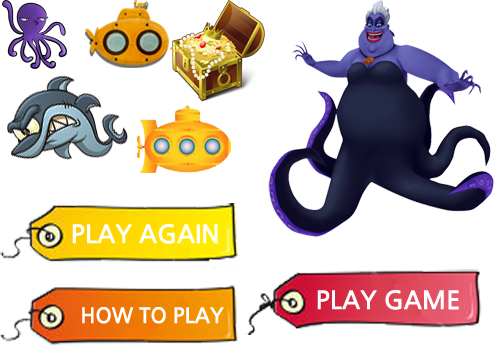
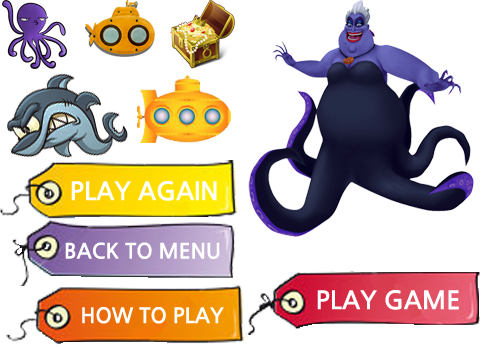
Add instruction button and stage

diff --git a/UnderTheSea/Scripts/managers/asset.ts b/UnderTheSea/Scripts/managers/asset.ts
@@ -2,7 +2,7 @@
     // Image and Sound Manifest;
     var assetManifest = [
         { id: "loading", src: "assets/images/loading.jpg" },
-        { id: "ocean", src: "assets/images/Untitled-6.png" },
+        { id: "ocean", src: "assets/images/underthesea.png" },
         { id: "engine", src: "assets/sounds/engine.ogg" },
         { id: "thunder", src: "assets/sounds/thunder.ogg" },
         { id: "yay", src: "assets/sounds/yay.ogg" },
@@ -11,26 +11,27 @@
     ];
 
     // SpriteSheet Data Object
-    //box 170, 0, 96, 101
-    //shark 6, 75, 122, 88
+    //box 170, 0, 66, 68
+    //shark 6, 73, 122, 88
     //octopus 1, 0, 68, 70
     //submarine 85, 0, 84, 68
-    //playagain 0, 203, 237, 58
-    //howtoplay 0,285, 237,59
-    //playgame 247, 269, 234, 65
+    //playagain 0, 160, 237, 58
+    //howtoplay 6,285, 237,59
+    //playgame 246, 273, 233, 66
     //finalboss 268, 0, 233, 238
+    //backtomenu 12, 221, 223, 65
 
 
     var spriteSheetData = {
         "images": ["assets/images/utilities.png"],
         "frames": [
-            [6, 75, 122, 88],
-            [0, 285, 237, 59],
-            [170, 0, 96, 101],
+            [6, 73, 122, 87],
+            [6, 285, 237, 59],
+            [170, 0, 66, 68],
             [85, 0, 84, 68],
-            [247, 269, 234, 65],
-            [0, 203, 237, 58],
-            [0, 285, 237, 59]
+            [246, 273, 233, 66],
+            [0, 160, 237, 58],
+            [12, 221, 223, 65]            
         ],
         "animations": {
             "shark": [0],
@@ -39,7 +40,7 @@
             "submarine": [3],
             "playButton": [4],
             "tryAgainButton": [5],
-            "howtoplayButton":[6]
+            "backToMenuButton" : [6]            
         }
     }
 

diff --git a/UnderTheSea/Scripts/states/instruction.ts b/UnderTheSea/Scripts/states/instruction.ts
@@ -1,0 +1,50 @@
+/// <reference path="../constants.ts" />
+/// <reference path="../objects/scoreboard.ts" />
+/// <reference path="../objects/submarine.ts" />
+/// <reference path="../objects/ocean.ts" />
+/// <reference path="../objects/treasurebox.ts" />
+/// <reference path="../objects/shark.ts" />
+/// <reference path="../objects/button.ts" />
+/// <reference path="../objects/label.ts" />
+module states {
+    export function instructionState() {
+        ocean.update();
+    }
+
+    // back to menu when backToMenu Button is clicked
+    export function backToMenuClicked(event: MouseEvent) {
+        stage.removeChild(game);
+        game.removeAllChildren();
+        game.removeAllEventListeners();
+        currentState = constants.MENU_STATE;
+        changeState(currentState);
+    }
+
+    export function instruction() {
+
+        var howtoplayLabel: objects.Label;
+
+        // Declare new Game Container
+        game = new createjs.Container();
+
+        // Instantiate Game Objects
+        ocean = new objects.Ocean(stage, game);
+        
+        // Show Cursor
+        stage.cursor = "default";
+
+        // Display instruction
+        howtoplayLabel = new objects.Label(stage.canvas.width / 2, 40, "How to play");
+        game.addChild(howtoplayLabel);
+
+        // Display back to menu Button
+        backToMenuButton = new objects.Button(stage.canvas.width / 2, 250, "backToMenuButton");
+        game.addChild(backToMenuButton);
+        backToMenuButton.addEventListener("click", backToMenuClicked);
+
+        stage.addChild(game);
+    }
+
+}
+
+ 

diff --git a/UnderTheSea/Scripts/states/menu.ts b/UnderTheSea/Scripts/states/menu.ts
@@ -16,6 +16,15 @@ module states {
         changeState(currentState);
     }
 
+    export function instructionButtonClicked(event: MouseEvent) {
+        stage.removeChild(game);
+        submarine.destroy();
+        game.removeAllChildren();
+        game.removeAllEventListeners();
+        currentState = constants.GAME_INSTRUCTION_STATE;
+        changeState(currentState);
+    }
+
     export function menuState() {
         ocean.update();
         submarine.update();
@@ -43,9 +52,9 @@ module states {
         game.addChild(playButton);
         playButton.addEventListener("click", playButtonClicked);
 
-        howtoplayButton = new objects.Button(stage.canvas.width / 2, 350, "howtoplayButton");
-        game.addChild(howtoplayButton);
-        howtoplayButton.addEventListener("click", playButtonClicked);
+        howToPlayButton = new objects.Button(stage.canvas.width / 2, 350, "instructionsButton");
+        game.addChild(howToPlayButton);
+        howToPlayButton.addEventListener("click", instructionButtonClicked);
 
         stage.addChild(game);
     }

diff --git a/UnderTheSea/Scripts/objects/scoreboard.ts b/UnderTheSea/Scripts/objects/scoreboard.ts
@@ -4,6 +4,7 @@
         stage: createjs.Stage;
         game: createjs.Container;
         lives: number;
+        hp: number;
         score: number;
         label: createjs.Text;
         labelText: string = "";
@@ -14,16 +15,17 @@
             this.game = game;
             this.lives = constants.SUBMARINE_LIVES;
             this.score = 0;
+            this.hp = constants.SUBMARINE_HP;
             this.label = new createjs.Text(this.labelText, constants.LABEL_FONT, constants.LABEL_COLOUR);
             this.update();
             this.width = this.label.getBounds().width;
             this.height = this.label.getBounds().height;
-
+            
             game.addChild(this.label);
         }
 
         update() {
-            this.labelText = "Lives: " + this.lives.toString() + " Score: " + this.score.toString();
+            this.labelText = "Lives: " + this.lives.toString() + " HP : "+ this.hp.toString() +" Score: " + this.score.toString();
             this.label.text = this.labelText;
         }
 

diff --git a/UnderTheSea/Scripts/game.ts b/UnderTheSea/Scripts/game.ts
@@ -11,7 +11,7 @@
 /// <reference path="states/play.ts" />
 /// <reference path="states/menu.ts" />
 /// <reference path="states/gameover.ts" />
-
+/// <reference path="states/instruction.ts" />
 
 
 var stage: createjs.Stage;
@@ -28,7 +28,8 @@ var collision: managers.Collision;
 
 var tryAgain: objects.Button;
 var playButton: objects.Button;
-var howtoplayButton: objects.Button;
+var howToPlayButton: objects.Button;
+var backToMenuButton: objects.Button;
 
 var currentState: number;
 var currentStateFunction;
@@ -88,6 +89,12 @@ function changeState(state: number): void {
             currentStateFunction = states.gameOverState;
             // instantiate game over screen
             states.gameOver();
+            break;
+
+        case constants.GAME_INSTRUCTION_STATE:
+            currentStateFunction = states.instructionState;
+            // instantiate instruction screen
+            states.instruction();
             break;
     }
 }

diff --git a/UnderTheSea/Scripts/states/gameover.ts b/UnderTheSea/Scripts/states/gameover.ts
@@ -52,9 +52,9 @@ module states {
         game.addChild(tryAgain);
         tryAgain.addEventListener("click", tryAgainClicked);
 
-        howtoplayButton = new objects.Button(stage.canvas.width / 2, 350, "howtoplayButton");
-        game.addChild(howtoplayButton);
-        howtoplayButton.addEventListener("click", tryAgainClicked);
+        backToMenuButton = new objects.Button(stage.canvas.width / 2, 350, "backToMenuButton");
+        game.addChild(backToMenuButton);
+        backToMenuButton.addEventListener("click", states.backToMenuClicked);
 
 
         stage.addChild(game);

diff --git a/UnderTheSea/Scripts/managers/collision.ts b/UnderTheSea/Scripts/managers/collision.ts
@@ -46,7 +46,12 @@ module managers {
             p2.y = shark.image.y;
             if (this.distance(p1, p2) < ((this.submarine.height / 2) + (shark.height / 2))) {
                 createjs.Sound.play("thunder");
-                this.scoreboard.lives -= 1;
+                if (this.scoreboard.hp <= 25) {                    
+                    this.scoreboard.lives -= 1;
+                    this.scoreboard.hp = 100;
+                } else {
+                    this.scoreboard.hp -= 25;
+                }
                 shark.reset();
             }
         }

diff --git a/UnderTheSea/Scripts/constants.ts b/UnderTheSea/Scripts/constants.ts
@@ -3,10 +3,12 @@
     export var MENU_STATE: number = 0;
     export var PLAY_STATE: number = 1;
     export var GAME_OVER_STATE: number = 2;
+    export var GAME_INSTRUCTION_STATE: number = 3;
 
     // Game Constants
     export var SHARK_NUM: number = 3;
     export var LABEL_FONT = "40px Consolas";
     export var LABEL_COLOUR = "#FFFF00";
     export var SUBMARINE_LIVES = 3;
+    export var SUBMARINE_HP = 100;
 }

diff --git a/UnderTheSea/index.html b/UnderTheSea/index.html
@@ -29,6 +29,7 @@
     <script src="Scripts/states/menu.js"></script>
     <script src="Scripts/states/play.js"></script>
     <script src="Scripts/states/gameover.js"></script>
+    <script src="Scripts/states/instruction.js"></script>
     <script src="Scripts/game.js"></script>
 </body>
 </html>
